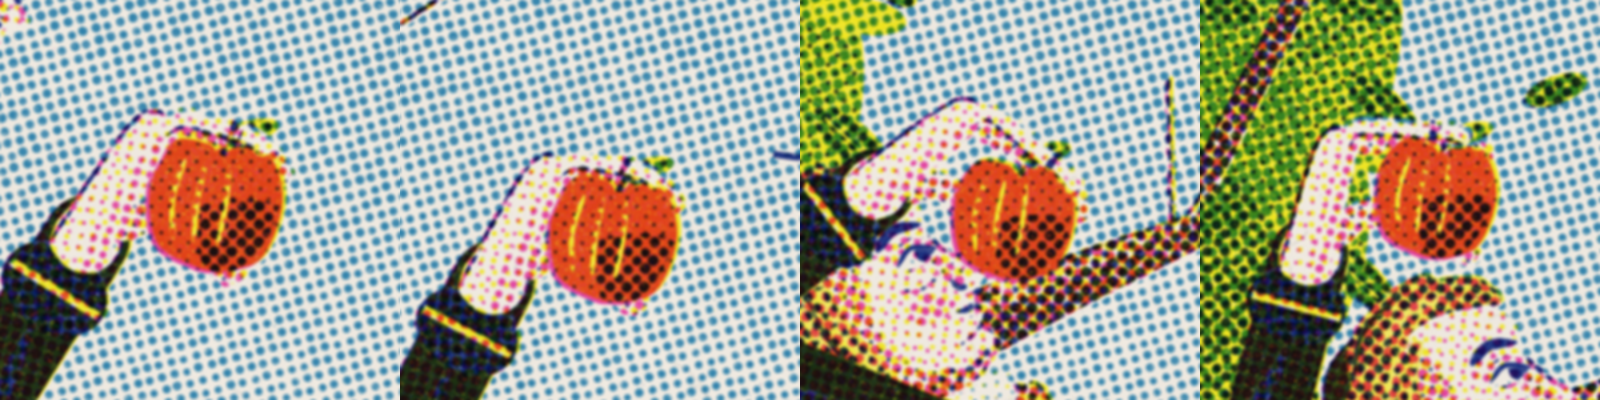
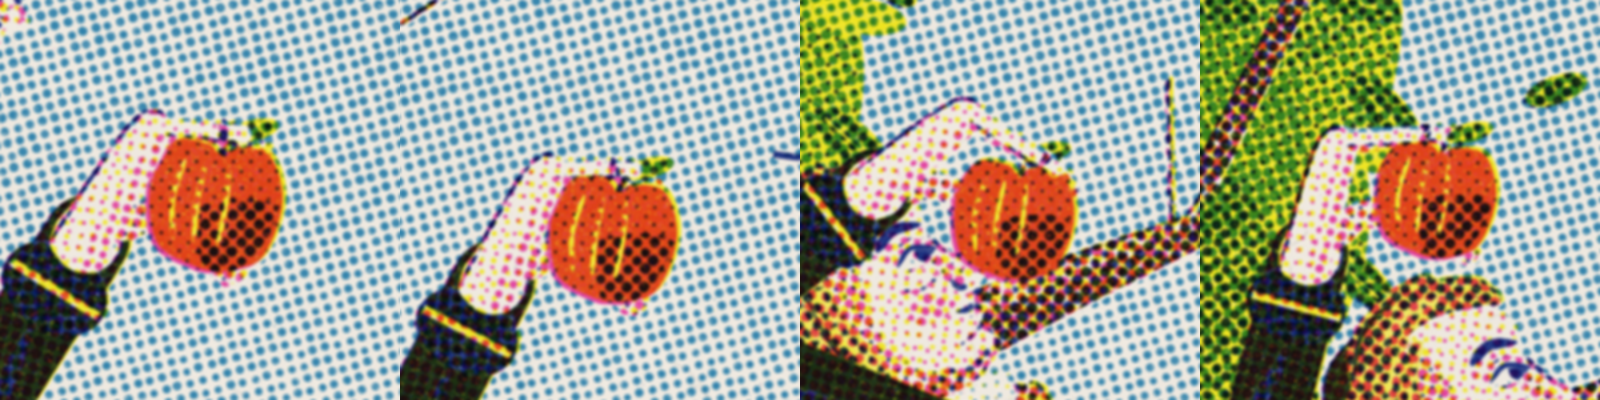
physics-history: Newton's fingers shorter still
Claude-Session: https://claude.ai/code/session_01FbC8jfwG91neyKwZD6gkGH

diff --git a/sandbox/2026-09-25-physics-history/figure.js b/sandbox/2026-09-25-physics-history/figure.js
@@ -189,7 +189,7 @@ const Fig = (() => {
             if (edge) { const ol = Ph.outline(P, wd * R), h = ol.length / 2; line(press, ol.slice(0, h), taper(lw, 0.1, 0.1), EDGE, { knock: false }); }
         };
         // the fingers behind the index: their tips stepped along the apple's front
-        for (const [t1, dt] of [[0.6, 0.5], [0.5, 0.3], [0.38, 0.15]]) dig([X(1.9, 0.1 + dt * 0.3)].concat(arc(-0.4 + dt, t1, 1.08)), 0.27, sh, false);
+        for (const [t1, dt] of [[0.2, 0.5], [0.1, 0.3], [0.0, 0.15]]) dig([X(1.95, 0.1 + dt * 0.3)].concat(arc(-0.45 + dt * 0.4, t1, 1.04)), 0.26, sh, false);
         // the thumb is on the far side of the hand (a right hand seen from its little-finger
         // side): behind the apple, only its tip showing past the apple's near edge
         const TH = [X(0.45, 0.35), X(0.95, 0.85), on(2.35, 1.0)];
@@ -204,9 +204,9 @@ const Fig = (() => {
         line(press, Ph.sample([X(-0.35, -0.42), X(0.8, -0.42), X(1.75, -0.36), X(2.08, -0.22), X(2.16, 0.02)], false, 6), taper(lw, 0.1, 0.1), EDGE, { knock: false });
         // the little finger, nearest: from the knuckle round the apple's far side to its front
         // (starting at the knuckle, at the end of the back of the hand, so the finger grows out of it)
-        const IX = [X(1.95, 0.05), X(2.25, 0.25)].concat(arc(-0.45, 0.15, 1.1).slice(1));
+        const IX = [X(2.0, 0.05)].concat(arc(-0.5, -0.2, 1.06));
         dig(IX, 0.26, spec, true);
-        for (const k of [3, 6]) { const p = IX[k], q = IX[k + 1], an = Math.atan2(q[1] - p[1], q[0] - p[0]); line(press, [[p[0] - Math.sin(an) * R * 0.12, p[1] + Math.cos(an) * R * 0.12], [p[0] + Math.sin(an) * R * 0.12, p[1] - Math.cos(an) * R * 0.12]], taper(lw * 0.8), EDGE, { knock: false }); }
+        for (const k of [4]) { const p = IX[k], q = IX[k + 1], an = Math.atan2(q[1] - p[1], q[0] - p[0]); line(press, [[p[0] - Math.sin(an) * R * 0.12, p[1] + Math.cos(an) * R * 0.12], [p[0] + Math.sin(an) * R * 0.12, p[1] - Math.cos(an) * R * 0.12]], taper(lw * 0.8), EDGE, { knock: false }); }
         // the thumb: from the heel, round the apple's near side, the nail at its tip
         return X(C[0], C[1]);
     }
